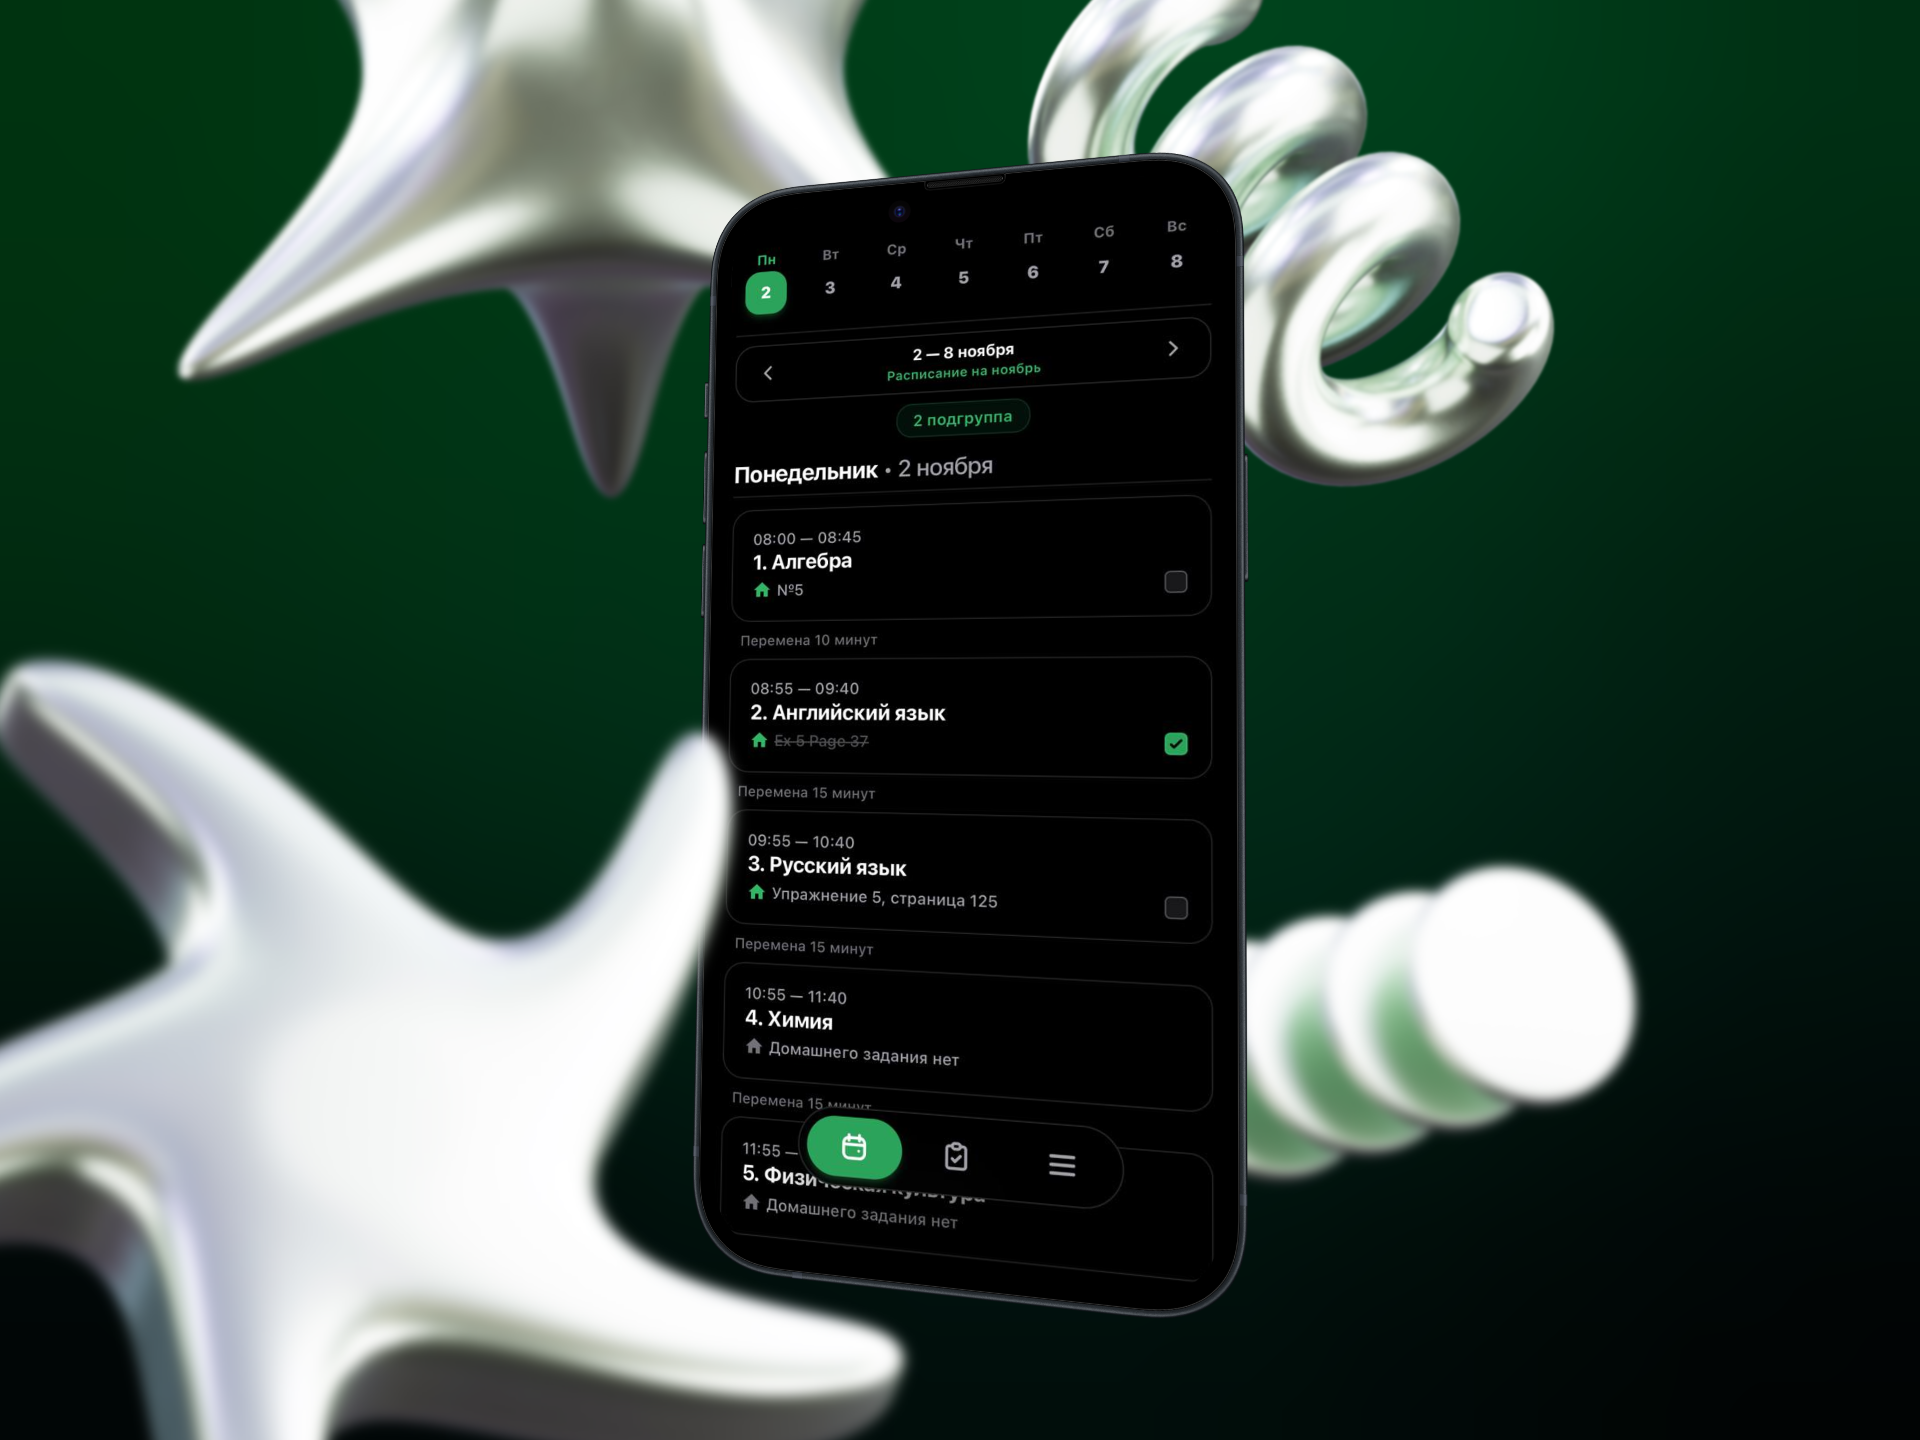
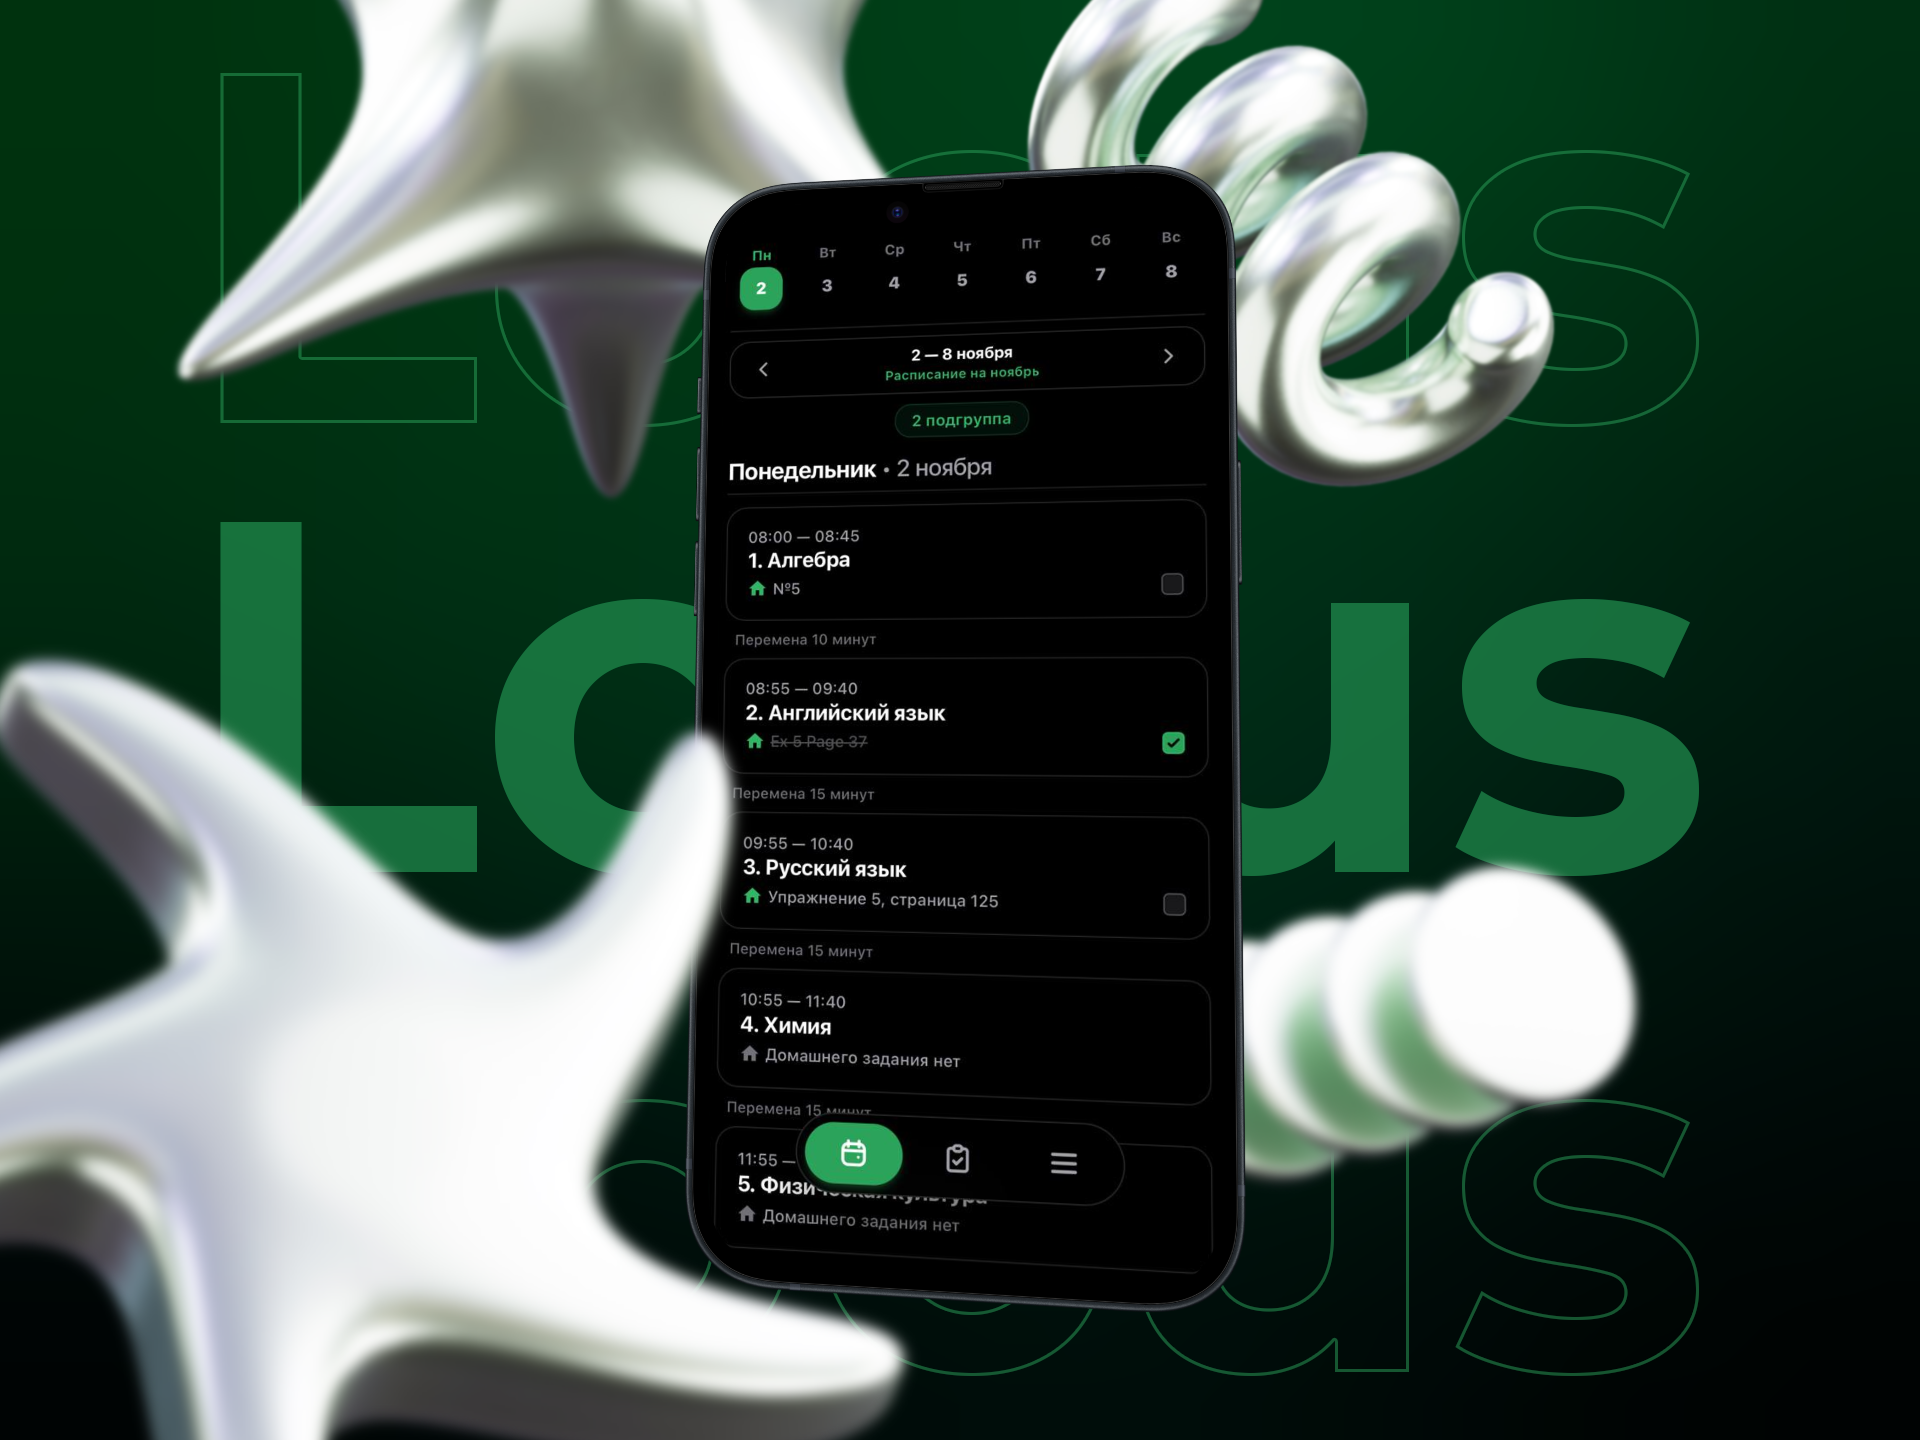
feat(dashboard): add next lesson homework button in lesson modal

diff --git a/src/locus/templates/dashboard/lesson_modal.html b/src/locus/templates/dashboard/lesson_modal.html
@@ -113,7 +113,7 @@
         <form method="post"
               hx-post="/dashboard/lesson/{{ lesson.id }}/homework?date={{ date_iso }}"
               hx-swap="none"
-              hx-disabled-elt="find button[type='submit']"
+              hx-disabled-elt="find button"
               class="flex-1 flex flex-col gap-3">
           {% if hw %}
           <input type="hidden" name="hw_id" value="{{ hw.id }}">
@@ -129,8 +129,8 @@
                       class="w-full flex-1 bg-[#202023] border border-zinc-800/80 focus:border-emerald-500 rounded-2xl p-4 text-base text-white focus:outline-none resize-none transition">{{ hw.title if hw else '' }}</textarea>
           </div>
 
-          <div class="flex items-center justify-between">
-            <label class="flex items-center space-x-2.5 cursor-pointer select-none">
+          <div class="flex items-center justify-between gap-2 pt-1">
+            <label class="flex items-center space-x-2.5 cursor-pointer select-none shrink-0">
               <input type="checkbox"
                      id="modal-hw-is-done"
                      name="is_done"
@@ -141,10 +141,27 @@
               <span class="text-xs sm:text-sm text-zinc-300 font-medium leading-none">Сделано</span>
             </label>
 
-            <button type="submit"
-                    class="px-5 py-2.5 rounded-xl text-xs sm:text-sm font-bold bg-emerald-500 hover:bg-emerald-600 active:scale-95 disabled:opacity-50 disabled:cursor-not-allowed text-white shadow-md shadow-emerald-500/20 transition">
-              Сохранить
-            </button>
+            <div class="flex items-center gap-1.5 shrink-0">
+              {% if next_lesson_info %}
+              <button type="button"
+                      hx-post="/dashboard/lesson/{{ next_lesson_info.lesson_id }}/homework?date={{ next_lesson_info.date_iso }}&forward=true"
+                      hx-params="title"
+                      hx-swap="none"
+                      hx-disabled-elt="closest form find button"
+                      class="inline-flex items-center gap-1 px-2.5 py-1.5 sm:px-3 sm:py-2 rounded-lg text-[11px] sm:text-xs font-medium bg-[#202023] hover:bg-[#27272a] hover:border-emerald-500/50 border border-zinc-700/80 text-emerald-400 active:scale-95 transition"
+                      title="Записать на следующий урок: {{ next_lesson_info.label }}">
+                <svg class="w-3 h-3 shrink-0" fill="none" viewBox="0 0 24 24" stroke="currentColor">
+                  <path stroke-linecap="round" stroke-linejoin="round" stroke-width="2.2" d="M13 7l5 5m0 0l-5 5m5-5H6" />
+                </svg>
+                <span>След. урок ({{ next_lesson_info.short_label }})</span>
+              </button>
+              {% endif %}
+
+              <button type="submit"
+                      class="px-3.5 py-1.5 sm:px-4 sm:py-2 rounded-lg text-xs sm:text-sm font-bold bg-emerald-500 hover:bg-emerald-600 active:scale-95 disabled:opacity-50 disabled:cursor-not-allowed text-white shadow-md shadow-emerald-500/20 transition">
+                Сохранить
+              </button>
+            </div>
           </div>
         </form>
         {% endif %}

diff --git a/src/locus/web/dashboard_routes.py b/src/locus/web/dashboard_routes.py
@@ -1,4 +1,4 @@
-from datetime import date, timedelta
+from datetime import date, datetime, time, timedelta
 from typing import Optional
 from fastapi import APIRouter, BackgroundTasks, Depends, Form, HTTPException, Query, Request
 from fastapi.responses import HTMLResponse
@@ -13,6 +13,7 @@ from locus.constants import (
     HomeworkStatus,
     MONTH_NAMES_GENITIVE,
     MONTH_NAMES_PREPOSITIONAL,
+    MONTH_NAMES_SHORT,
     calculate_break_minutes,
     format_russian_break,
     get_current_date,
@@ -33,7 +34,7 @@ from locus.homework_audit import (
     snapshot_changes,
 )
 from locus.homework_status import attach_status, attach_statuses, set_status
-from locus.lesson_suggestion import get_next_lesson_suggestion
+from locus.lesson_suggestion import find_next_subject_lesson, get_next_lesson_suggestion
 from locus.models.homework import Homework
 from locus.models.lesson import Lesson
 from locus.models.subject import Subject
@@ -437,6 +438,53 @@ async def get_lesson_modal(
     month_gen = MONTH_NAMES_GENITIVE.get(target_date.month, "")
     date_formatted = f"{short_dow}, {target_date.day} {month_gen}"
 
+    next_lesson_info = None
+    if lesson.subject_id:
+        all_lessons_stmt = (
+            select(Lesson)
+            .options(selectinload(Lesson.subject))
+            .order_by(Lesson.day_of_week, Lesson.lesson_number)
+        )
+        all_lessons_res = await db.execute(all_lessons_stmt)
+        all_lessons = list(all_lessons_res.scalars().all())
+
+        vac_stmt = (
+            select(Vacation)
+            .where(Vacation.end_date >= target_date)
+            .order_by(Vacation.start_date.asc())
+        )
+        vac_res = await db.execute(vac_stmt)
+        vacations = list(vac_res.scalars().all())
+
+        try:
+            end_h, end_m = [int(p) for p in (lesson.end_time or "00:00").split(":")[:2]]
+            ref_dt = datetime.combine(target_date, time(end_h, end_m))
+        except (ValueError, AttributeError):
+            ref_dt = datetime.combine(target_date, time(0, 0))
+
+        target_subgroup = lesson.subgroup if lesson.subgroup is not None else (
+            current_user.subgroup if not current_user.is_admin else None
+        )
+
+        found = find_next_subject_lesson(
+            all_lessons,
+            lesson,
+            ref_dt,
+            vacations=vacations,
+            subgroup=target_subgroup,
+        )
+        if found:
+            next_date, target_next_lesson = found
+            next_short_dow = DAY_SHORT_NAMES.get(next_date.isoweekday(), "")
+            next_month_short = MONTH_NAMES_SHORT.get(next_date.month, "")
+            next_month_gen = MONTH_NAMES_GENITIVE.get(next_date.month, "")
+            next_lesson_info = {
+                "lesson_id": target_next_lesson.id,
+                "date_iso": next_date.isoformat(),
+                "short_label": f"{next_short_dow}, {next_date.day} {next_month_short}".strip(),
+                "label": f"{next_short_dow}, {next_date.day} {next_month_gen}".strip(),
+            }
+
     return templates.TemplateResponse(
         request=request,
         name="dashboard/lesson_modal.html",
@@ -445,6 +493,7 @@ async def get_lesson_modal(
             "subject": lesson.subject,
             "homeworks": homeworks,
             "hw": hw,
+            "next_lesson_info": next_lesson_info,
             "last_edit": last_edit,
             "last_edit_time": (
                 local_datetime(last_edit.created_at).strftime("%d.%m %H:%M")
@@ -470,6 +519,7 @@ async def save_lesson_homework(
     title: Optional[str] = Form(default=None),
     is_done: Optional[bool] = Form(default=False),
     action: Optional[str] = Query(default=None),
+    forward: Optional[bool] = Query(default=False),
     current_user: User = Depends(get_current_user_web),
     db: AsyncSession = Depends(get_db),
 ):
@@ -507,7 +557,9 @@ async def save_lesson_homework(
     if effective_hw_id:
         hw_stmt = select(Homework).where(Homework.id == effective_hw_id)
         hw = (await db.execute(hw_stmt)).scalar_one_or_none()
-    else:
+        if hw and (hw.due_date != target_date or (hw.lesson_id is not None and hw.lesson_id != lesson.id)):
+            hw = None
+    if not hw:
         hw_stmt = (
             select(Homework)
             .where(
@@ -535,15 +587,16 @@ async def save_lesson_homework(
     elif hw:
         # If title is cleared -> delete ("пустое, значит ничего не задано")
         if not clean_title:
-            deleted_hw_id = hw.id
-            notify_homework_change(
-                background, current_user, ACTION_DELETED, hw.id, hw.title, lesson.subject.name, hw.subgroup, hw.due_date
-            )
-            log_homework_event(
-                db, current_user, ACTION_DELETED, None, snapshot_changes(hw, deleted=True)
-            )
-            await db.delete(hw)
-            await db.commit()
+            if effective_hw_id is not None or action == "delete":
+                deleted_hw_id = hw.id
+                notify_homework_change(
+                    background, current_user, ACTION_DELETED, hw.id, hw.title, lesson.subject.name, hw.subgroup, hw.due_date
+                )
+                log_homework_event(
+                    db, current_user, ACTION_DELETED, None, snapshot_changes(hw, deleted=True)
+                )
+                await db.delete(hw)
+                await db.commit()
         else:
             if target_date.isoweekday() == 7:
                 raise HTTPException(status_code=400, detail="Нельзя записать домашнее задание на воскресенье")
@@ -555,7 +608,8 @@ async def save_lesson_homework(
             changes = diff(before, snapshot(hw))
             if changes:
                 log_homework_event(db, current_user, ACTION_UPDATED, hw.id, changes)
-            await set_status(db, hw.id, current_user.id, status_val)
+            if not forward:
+                await set_status(db, hw.id, current_user.id, status_val)
             if was_unassigned:
                 unassigned_removed_id = hw.id
             await db.commit()
@@ -575,7 +629,8 @@ async def save_lesson_homework(
         )
         db.add(new_hw)
         await db.flush()
-        await set_status(db, new_hw.id, current_user.id, status_val)
+        new_status = HomeworkStatus.TODO.value if forward else status_val
+        await set_status(db, new_hw.id, current_user.id, new_status)
         log_homework_event(
             db, current_user, ACTION_CREATED, new_hw.id, snapshot_changes(new_hw)
         )

diff --git a/tests/test_web.py b/tests/test_web.py
@@ -386,6 +386,131 @@ async def test_paired_lessons_no_homework_cross_contamination(
 
 
 @pytest.mark.asyncio
+async def test_lesson_modal_next_lesson_button_and_saving(
+    client: AsyncClient,
+    test_user: User,
+    auth_token: str,
+    test_subject: Subject,
+    db_session,
+):
+    """Option B: lesson modal displays 'На след. урок' button targeting next subject date."""
+    from datetime import date
+    from sqlalchemy import select
+    from locus.config import get_settings
+    from locus.models.homework import Homework
+    from locus.models.lesson import Lesson
+
+    settings = get_settings()
+    client.cookies.set(settings.COOKIE_NAME, auth_token)
+
+    # Lesson 1 on Monday (day 1), Lesson 2 on Thursday (day 4)
+    lesson1 = Lesson(
+        subject_id=test_subject.id,
+        day_of_week=1,
+        lesson_number=1,
+        start_time="08:30",
+        end_time="09:15",
+    )
+    lesson2 = Lesson(
+        subject_id=test_subject.id,
+        day_of_week=4,
+        lesson_number=2,
+        start_time="09:25",
+        end_time="10:10",
+    )
+    db_session.add_all([lesson1, lesson2])
+    await db_session.commit()
+    await db_session.refresh(lesson1)
+    await db_session.refresh(lesson2)
+
+    mon_date = "2026-10-19"  # Monday
+    thu_date = "2026-10-22"  # Thursday
+
+    # Open modal for Monday lesson
+    res_modal = await client.get(f"/dashboard/lesson/{lesson1.id}/modal?date={mon_date}")
+    assert res_modal.status_code == 200
+    assert "След. урок (Чт, 22 окт)" in res_modal.text
+    assert f'hx-post="/dashboard/lesson/{lesson2.id}/homework?date={thu_date}&forward=true"' in res_modal.text
+    assert 'hx-params="title"' in res_modal.text
+    assert 'type="button"' in res_modal.text
+    assert 'hx-disabled-elt="closest form find button"' in res_modal.text
+
+    # Save homework directly to the next lesson via that endpoint
+    res_save = await client.post(
+        f"/dashboard/lesson/{lesson2.id}/homework?date={thu_date}&forward=true",
+        data={
+            "title": "Упр. 42 на четверг",
+        },
+    )
+    assert res_save.status_code == 200
+    assert f'id="m-lesson-card-{lesson2.id}-4"' in res_save.text
+    assert "closeModal('lesson-detail-modal')" in res_save.text
+
+    # Verify homework in DB and that its status is TODO
+    from locus.constants import HomeworkStatus
+    from locus.homework_status import get_completion, set_status
+
+    thu_hw_res = await db_session.execute(
+        select(Homework).where(
+            Homework.lesson_id == lesson2.id,
+            Homework.due_date == date.fromisoformat(thu_date),
+        )
+    )
+    thu_hw = thu_hw_res.scalar_one_or_none()
+    assert thu_hw is not None
+    assert thu_hw.title == "Упр. 42 на четверг"
+    completion = await get_completion(db_session, thu_hw.id, test_user.id)
+    assert completion is not None
+    assert completion.status == HomeworkStatus.TODO.value
+
+    # Mark Thursday homework as DONE
+    await set_status(db_session, thu_hw.id, test_user.id, HomeworkStatus.DONE.value)
+
+    # Verify Monday has no homework created
+    mon_hw_res = await db_session.execute(
+        select(Homework).where(
+            Homework.lesson_id == lesson1.id,
+            Homework.due_date == date.fromisoformat(mon_date),
+        )
+    )
+    assert mon_hw_res.scalar_one_or_none() is None
+
+    # Cross-date safety test: create homework on Monday
+    mon_hw = Homework(
+        subject_id=test_subject.id,
+        lesson_id=lesson1.id,
+        title="Упр. 10 для понедельника",
+        due_date=date.fromisoformat(mon_date),
+    )
+    db_session.add(mon_hw)
+    await db_session.commit()
+    await db_session.refresh(mon_hw)
+
+    # Submitting with mon_hw.id and forward=true to Thursday must NOT modify or reassign Monday's homework
+    # and must preserve Thursday's existing DONE status
+    res_save_again = await client.post(
+        f"/dashboard/lesson/{lesson2.id}/homework?date={thu_date}&forward=true",
+        data={
+            "hw_id": mon_hw.id,
+            "title": "Упр. 42 (обновлено) на четверг",
+        },
+    )
+    assert res_save_again.status_code == 200
+
+    # Reload Monday homework: must be completely untouched
+    await db_session.refresh(mon_hw)
+    assert mon_hw.title == "Упр. 10 для понедельника"
+    assert mon_hw.lesson_id == lesson1.id
+    assert mon_hw.due_date == date.fromisoformat(mon_date)
+
+    # Thursday homework updated, but completion status is preserved as DONE
+    await db_session.refresh(thu_hw)
+    assert thu_hw.title == "Упр. 42 (обновлено) на четверг"
+    thu_completion = await get_completion(db_session, thu_hw.id, test_user.id)
+    assert thu_completion.status == HomeworkStatus.DONE.value
+
+
+@pytest.mark.asyncio
 async def test_unassigned_homework_deletion_from_modal(
     client: AsyncClient,
     test_user: User,

diff --git a/src/locus/constants.py b/src/locus/constants.py
@@ -65,6 +65,21 @@ MONTH_NAMES_GENITIVE: Dict[int, str] = {
     12: "декабря",
 }
 
+MONTH_NAMES_SHORT: Dict[int, str] = {
+    1: "янв",
+    2: "фев",
+    3: "мар",
+    4: "апр",
+    5: "мая",
+    6: "июн",
+    7: "июл",
+    8: "авг",
+    9: "сен",
+    10: "окт",
+    11: "ноя",
+    12: "дек",
+}
+
 MONTH_NAMES_PREPOSITIONAL: Dict[int, str] = {
     1: "январь",
     2: "февраль",

diff --git a/src/locus/lesson_suggestion.py b/src/locus/lesson_suggestion.py
@@ -65,6 +65,9 @@ def _find_next_subject_lesson(
     return None
 
 
+find_next_subject_lesson = _find_next_subject_lesson
+
+
 def get_next_lesson_suggestion(
     lessons: List[Any],
     now: datetime,
